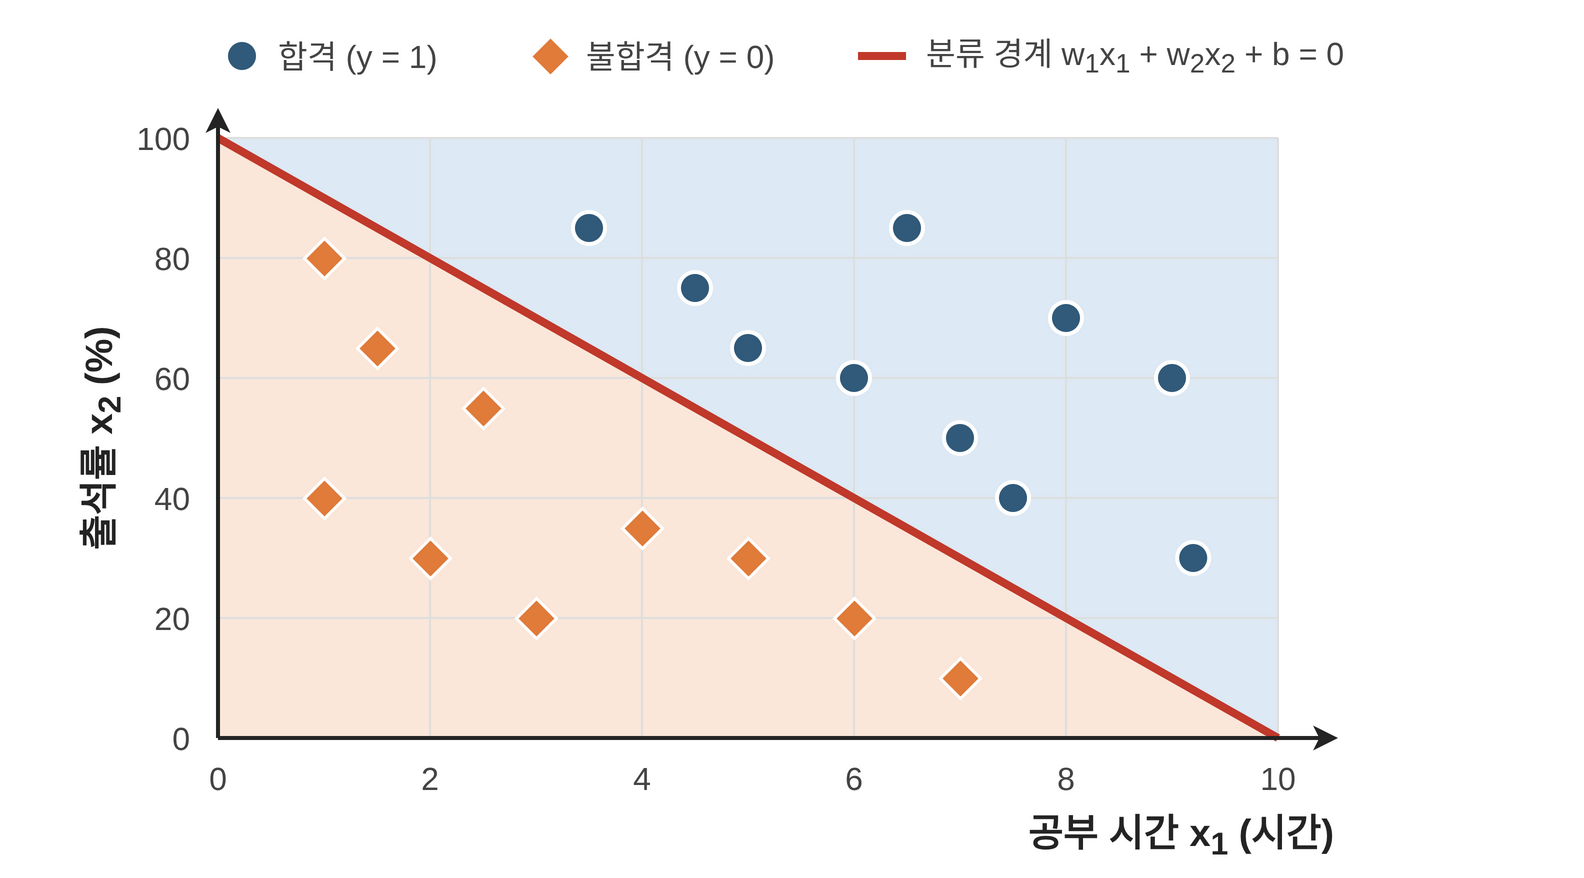
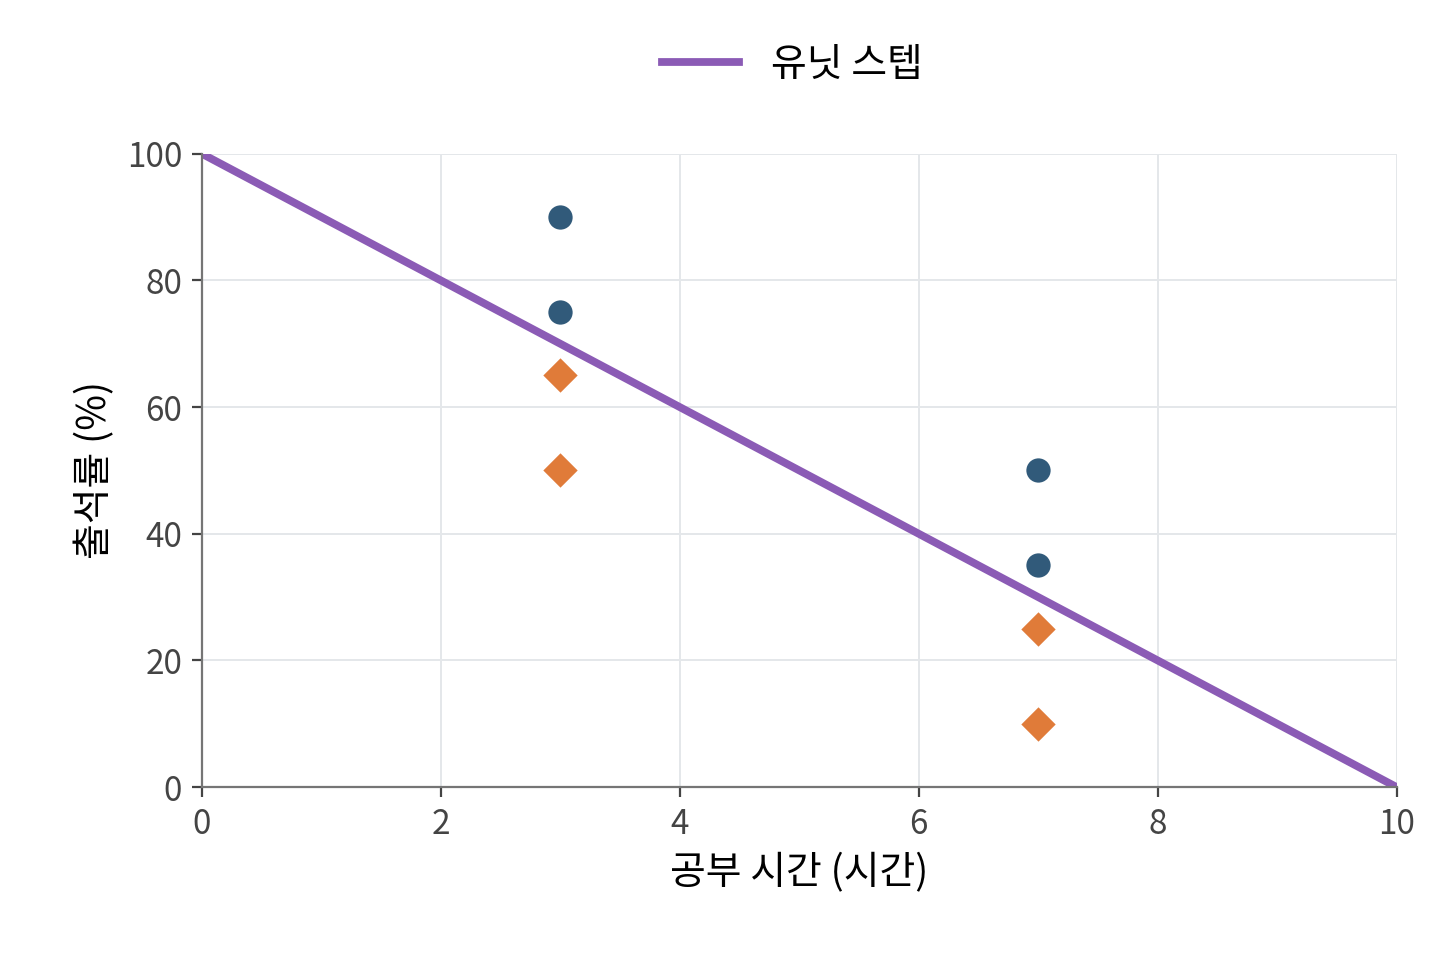
docs: simplify classification data and compare linear boundaries

diff --git a/scripts/figures/ch05_linear_classification.py b/scripts/figures/ch05_linear_classification.py
@@ -1,0 +1,99 @@
+"""학생 8명의 데이터와 유닛 스텝·시그모이드 분류 경계를 그린다.
+
+실행: python3 scripts/figures/ch05_linear_classification.py
+동일한 점수 z = x1 + x2 / 10 - 10에서 unit step의 기준은 z=0,
+sigmoid의 기준은 p=0.5이다. 두 경계는 같은 직선이다.
+출력: perceptron-data.png, perceptron-boundary.png,
+      unit-step-sigmoid-boundary.png (easy-deep-learning-ch04 폴더)
+"""
+from pathlib import Path
+
+import matplotlib
+
+matplotlib.use("Agg")
+import matplotlib.pyplot as plt
+import numpy as np
+from matplotlib import font_manager
+from matplotlib.lines import Line2D
+
+from ch04_classification_drawio import PASS, FAIL, perceptron, OUT as DIAGRAMS
+
+
+OUT = Path(__file__).resolve().parents[2] / "site/public/images/notes/easy-deep-learning-ch04"
+PASS_COLOR, FAIL_COLOR = "#315a7a", "#e07b39"
+STEP_COLOR, SIGMOID_COLOR = "#8b5bb5", "#258978"
+
+
+def configure_font():
+    for candidate in (
+        "/usr/share/fonts/opentype/noto/NotoSansCJK-Regular.ttc",
+        "/usr/share/fonts/truetype/nanum/NanumGothic.ttf",
+        "/System/Library/Fonts/AppleSDGothicNeo.ttc",
+        "C:/Windows/Fonts/malgun.ttf",
+    ):
+        if Path(candidate).exists():
+            font_manager.fontManager.addfont(candidate)
+            plt.rcParams["font.family"] = font_manager.FontProperties(fname=candidate).get_name()
+            break
+    plt.rcParams.update({"font.size": 14, "axes.unicode_minus": False})
+
+
+def draw_data(ax):
+    for samples, marker, color in (
+        (PASS, "o", PASS_COLOR), (FAIL, "D", FAIL_COLOR)
+    ):
+        values = np.asarray(samples)
+        ax.scatter(values[:, 0], values[:, 1], s=95, marker=marker,
+                   color=color, edgecolors="white", linewidths=1, zorder=3)
+    ax.set(xlim=(0, 10), ylim=(0, 100), xticks=[0, 2, 4, 6, 8, 10],
+           yticks=[0, 20, 40, 60, 80, 100],
+           xlabel="공부 시간 (시간)", ylabel="출석률 (%)")
+    ax.grid(color="#e4e7ea", linewidth=0.7)
+    ax.set_axisbelow(True)
+    ax.spines[["top", "right"]].set_visible(False)
+    ax.spines[["left", "bottom"]].set_color("#757575")
+    ax.tick_params(colors="#444444", labelsize=12)
+
+
+def draw_boundary(ax, color):
+    x = np.linspace(0, 10, 101)
+    ax.plot(x, 100 - 10 * x, color=color, linewidth=2.8, zorder=2)
+
+
+def save_single(name, boundary=False):
+    fig, ax = plt.subplots(figsize=(7.2, 4.8), dpi=200)
+    fig.subplots_adjust(left=0.14, right=0.97, bottom=0.18, top=0.84)
+    draw_data(ax)
+    if boundary:
+        draw_boundary(ax, STEP_COLOR)
+        fig.legend([Line2D([0], [0], color=STEP_COLOR, linewidth=2.8)],
+                   ["유닛 스텝"], loc="upper center", frameon=False,
+                   bbox_to_anchor=(0.55, 0.99))
+    fig.savefig(OUT / f"{name}.png", facecolor="white")
+    plt.close(fig)
+
+
+def save_comparison():
+    fig, axes = plt.subplots(1, 2, figsize=(10, 4.8), dpi=200)
+    fig.subplots_adjust(left=0.08, right=0.98, bottom=0.18, top=0.83, wspace=0.28)
+    for ax, color in zip(axes, (STEP_COLOR, SIGMOID_COLOR)):
+        draw_data(ax)
+        draw_boundary(ax, color)
+    fig.legend([Line2D([0], [0], color=color, linewidth=2.8)
+                for color in (STEP_COLOR, SIGMOID_COLOR)],
+               ["유닛 스텝", "시그모이드"], ncol=2, loc="upper center",
+               frameon=False, bbox_to_anchor=(0.53, 0.99))
+    fig.savefig(OUT / "unit-step-sigmoid-boundary.png", facecolor="white")
+    plt.close(fig)
+
+
+if __name__ == "__main__":
+    configure_font()
+    OUT.mkdir(parents=True, exist_ok=True)
+    DIAGRAMS.mkdir(parents=True, exist_ok=True)
+    # Keep the existing editable draw.io originals on the same eight students.
+    perceptron(False)
+    perceptron(True)
+    save_single("perceptron-data")
+    save_single("perceptron-boundary", boundary=True)
+    save_comparison()

diff --git a/scripts/figures/ch04_classification_drawio.py b/scripts/figures/ch04_classification_drawio.py
@@ -150,8 +150,8 @@ def frange(a, b, n):
 
 
 # 합격: (공부 시간, 출석률 %) / 불합격. 경계 출석률 = 100 - 10 × 공부 시간 으로 완벽히 갈린다.
-PASS = [(3.5, 85), (4.5, 75), (5, 65), (6, 60), (6.5, 85), (7, 50), (7.5, 40), (8, 70), (9, 60), (9.2, 30)]
-FAIL = [(1, 40), (1, 80), (1.5, 65), (2, 30), (2.5, 55), (3, 20), (4, 35), (5, 30), (6, 20), (7, 10)]
+PASS = [(3, 75), (3, 90), (7, 35), (7, 50)]
+FAIL = [(3, 65), (3, 50), (7, 25), (7, 10)]
 assert all(a > 100 - 10 * h for h, a in PASS) and all(a < 100 - 10 * h for h, a in FAIL)
 
 
@@ -159,21 +159,16 @@ def perceptron(boundary):
     name = "perceptron-boundary" if boundary else "perceptron-data"
     d = Diagram(name, "학습이 끝난 분류 경계" if boundary else "공부 시간과 출석률 데이터")
     p = Plot(d, (0, 10), (0, 100))
-    if boundary:
-        d.polygon(p.x0, p.y0, p.w, p.h, "[[0,0],[1,0],[1,1]]", PASS_FILL)
-        d.polygon(p.x0, p.y0, p.w, p.h, "[[0,0],[0,1],[1,1]]", FAIL_FILL)
     p.grid(range(0, 11, 2), range(0, 101, 20), lambda t: str(t), lambda t: str(t))
     if boundary:
-        d.line([(p.px(0), p.py(100)), (p.px(10), p.py(0))], RED, 4)
+        d.line([(p.px(0), p.py(100)), (p.px(10), p.py(0))], "#8b5bb5", 4)
     for h, a in FAIL:
         d.diamond(p.px(h), p.py(a), ORANGE)
     for h, a in PASS:
         d.dot(p.px(h), p.py(a), BLUE)
     p.axes("공부 시간 x<sub>1</sub> (시간)", "출석률 x<sub>2</sub> (%)")
-    items = [("dot", BLUE, "합격 (y = 1)", 110), ("diamond", ORANGE, "불합격 (y = 0)", 120)]
     if boundary:
-        items.append(("line", RED, "분류 경계 w<sub>1</sub>x<sub>1</sub> + w<sub>2</sub>x<sub>2</sub> + b = 0", 330))
-    d.legend(items, 112, 14)
+        d.legend([("line", "#8b5bb5", "유닛 스텝", 110)], 112, 14)
     d.save()
 
 

diff --git a/site/src/content/notes/Machine Learning｜Deep Learning/deeplearning_05.md b/site/src/content/notes/Machine Learning｜Deep Learning/deeplearning_05.md
@@ -23,9 +23,9 @@ featured: false
 ## 2. 퍼셉트론으로 이진분류
 
 퍼셉트론을 사용하여 공부 시간과 출석률로 시험 합격(1)과 불합격(0)을 예측해 보겠습니다.
-입력노드 $x_1$에는 공부 시간과  $x_2$에는 출석률을 입력으로 하겠습니다. 학생 20명의 데이터를 넣으면 다음과 같습니다.
+입력노드 $x_1$에는 공부 시간과 $x_2$에는 출석률을 입력합니다. 학생 8명을 예시로 보겠습니다. 파란 원은 합격, 주황 마름모는 불합격입니다.
 
-<img src="../../../../public/images/notes/easy-deep-learning-ch04/perceptron-data.png" alt="공부 시간과 출석률 평면에 찍은 합격 학생 10명(파란 원)과 불합격 학생 10명(주황 마름모)의 산점도" loading="lazy" width="560" />
+<img src="../../../../public/images/notes/easy-deep-learning-ch04/perceptron-data.png" alt="공부 시간과 출석률 평면의 합격 학생 4명(파란 원)과 불합격 학생 4명(주황 마름모). 같은 공부 시간에서 경계에 가까운 학생과 먼 학생을 비교할 수 있는 산점도" loading="lazy" width="560" />
 
 퍼셉트론은 입력값들을 종합한 점수가 기준선(0)을 넘으면 1, 넘지 못하면 0으로 판정하는 **유닛 스텝 함수(Unit Step Function)** 를 사용합니다.
 <img src="../../../../public/images/notes/easy-deep-learning-ch04/unit-step.svg" alt="입력이 0보다 작으면 0, 0 이상이면 1을 출력하는 유닛 스텝 함수 그래프" loading="lazy" width="560" />
@@ -42,7 +42,7 @@ featured: false
 
 학생들의 데이터를 반복해서 확인하며 합격과 불합격을 나누는 경계를 찾습니다.
 
-<img src="../../../../public/images/notes/easy-deep-learning-ch04/perceptron-boundary.png" alt="학습이 끝난 퍼셉트론의 분류 경계 직선이 합격 학생과 불합격 학생을 모두 올바른 쪽으로 가르는 그래프" loading="lazy" width="560" />
+<img src="../../../../public/images/notes/easy-deep-learning-ch04/perceptron-boundary.png" alt="학생 8명의 데이터에서 유닛 스텝의 보라색 분류 경계 직선이 합격 학생 4명과 불합격 학생 4명을 나누는 그래프" loading="lazy" width="560" />
 
 ### 계단 함수의 한계
 
@@ -105,6 +105,11 @@ $$
    계단 함수와 달리 모든 구간에서 곡선이 매끄럽게 이어집니다. 손실 함수를 정의하면 시그모이드의 미분을 이용해 가중치와 편향을 경사하강법으로 조정할 수 있습니다.
 
 이처럼 입력의 선형식으로 분류 경계를 정하는 방식을 **선형분류**라고 합니다. 이 예제에서는 입력이 두 개이므로 분류 경계가 직선입니다.
+
+같은 점수식에서 유닛 스텝의 기준 $z=0$과 시그모이드의 기준 $p=0.5$는 같은 분류 경계를 만듭니다.
+
+<img src="../../../../public/images/notes/easy-deep-learning-ch04/unit-step-sigmoid-boundary.png" alt="같은 학생 8명과 점수식을 사용한 선형분류 비교. 왼쪽 유닛 스텝의 보라색 경계와 오른쪽 시그모이드의 초록색 경계가 같은 위치에서 합격과 불합격을 나눈다" loading="lazy" width="720" height="346" />
+
 
 ### 직선으로 나눌 수 없는 데이터
 
